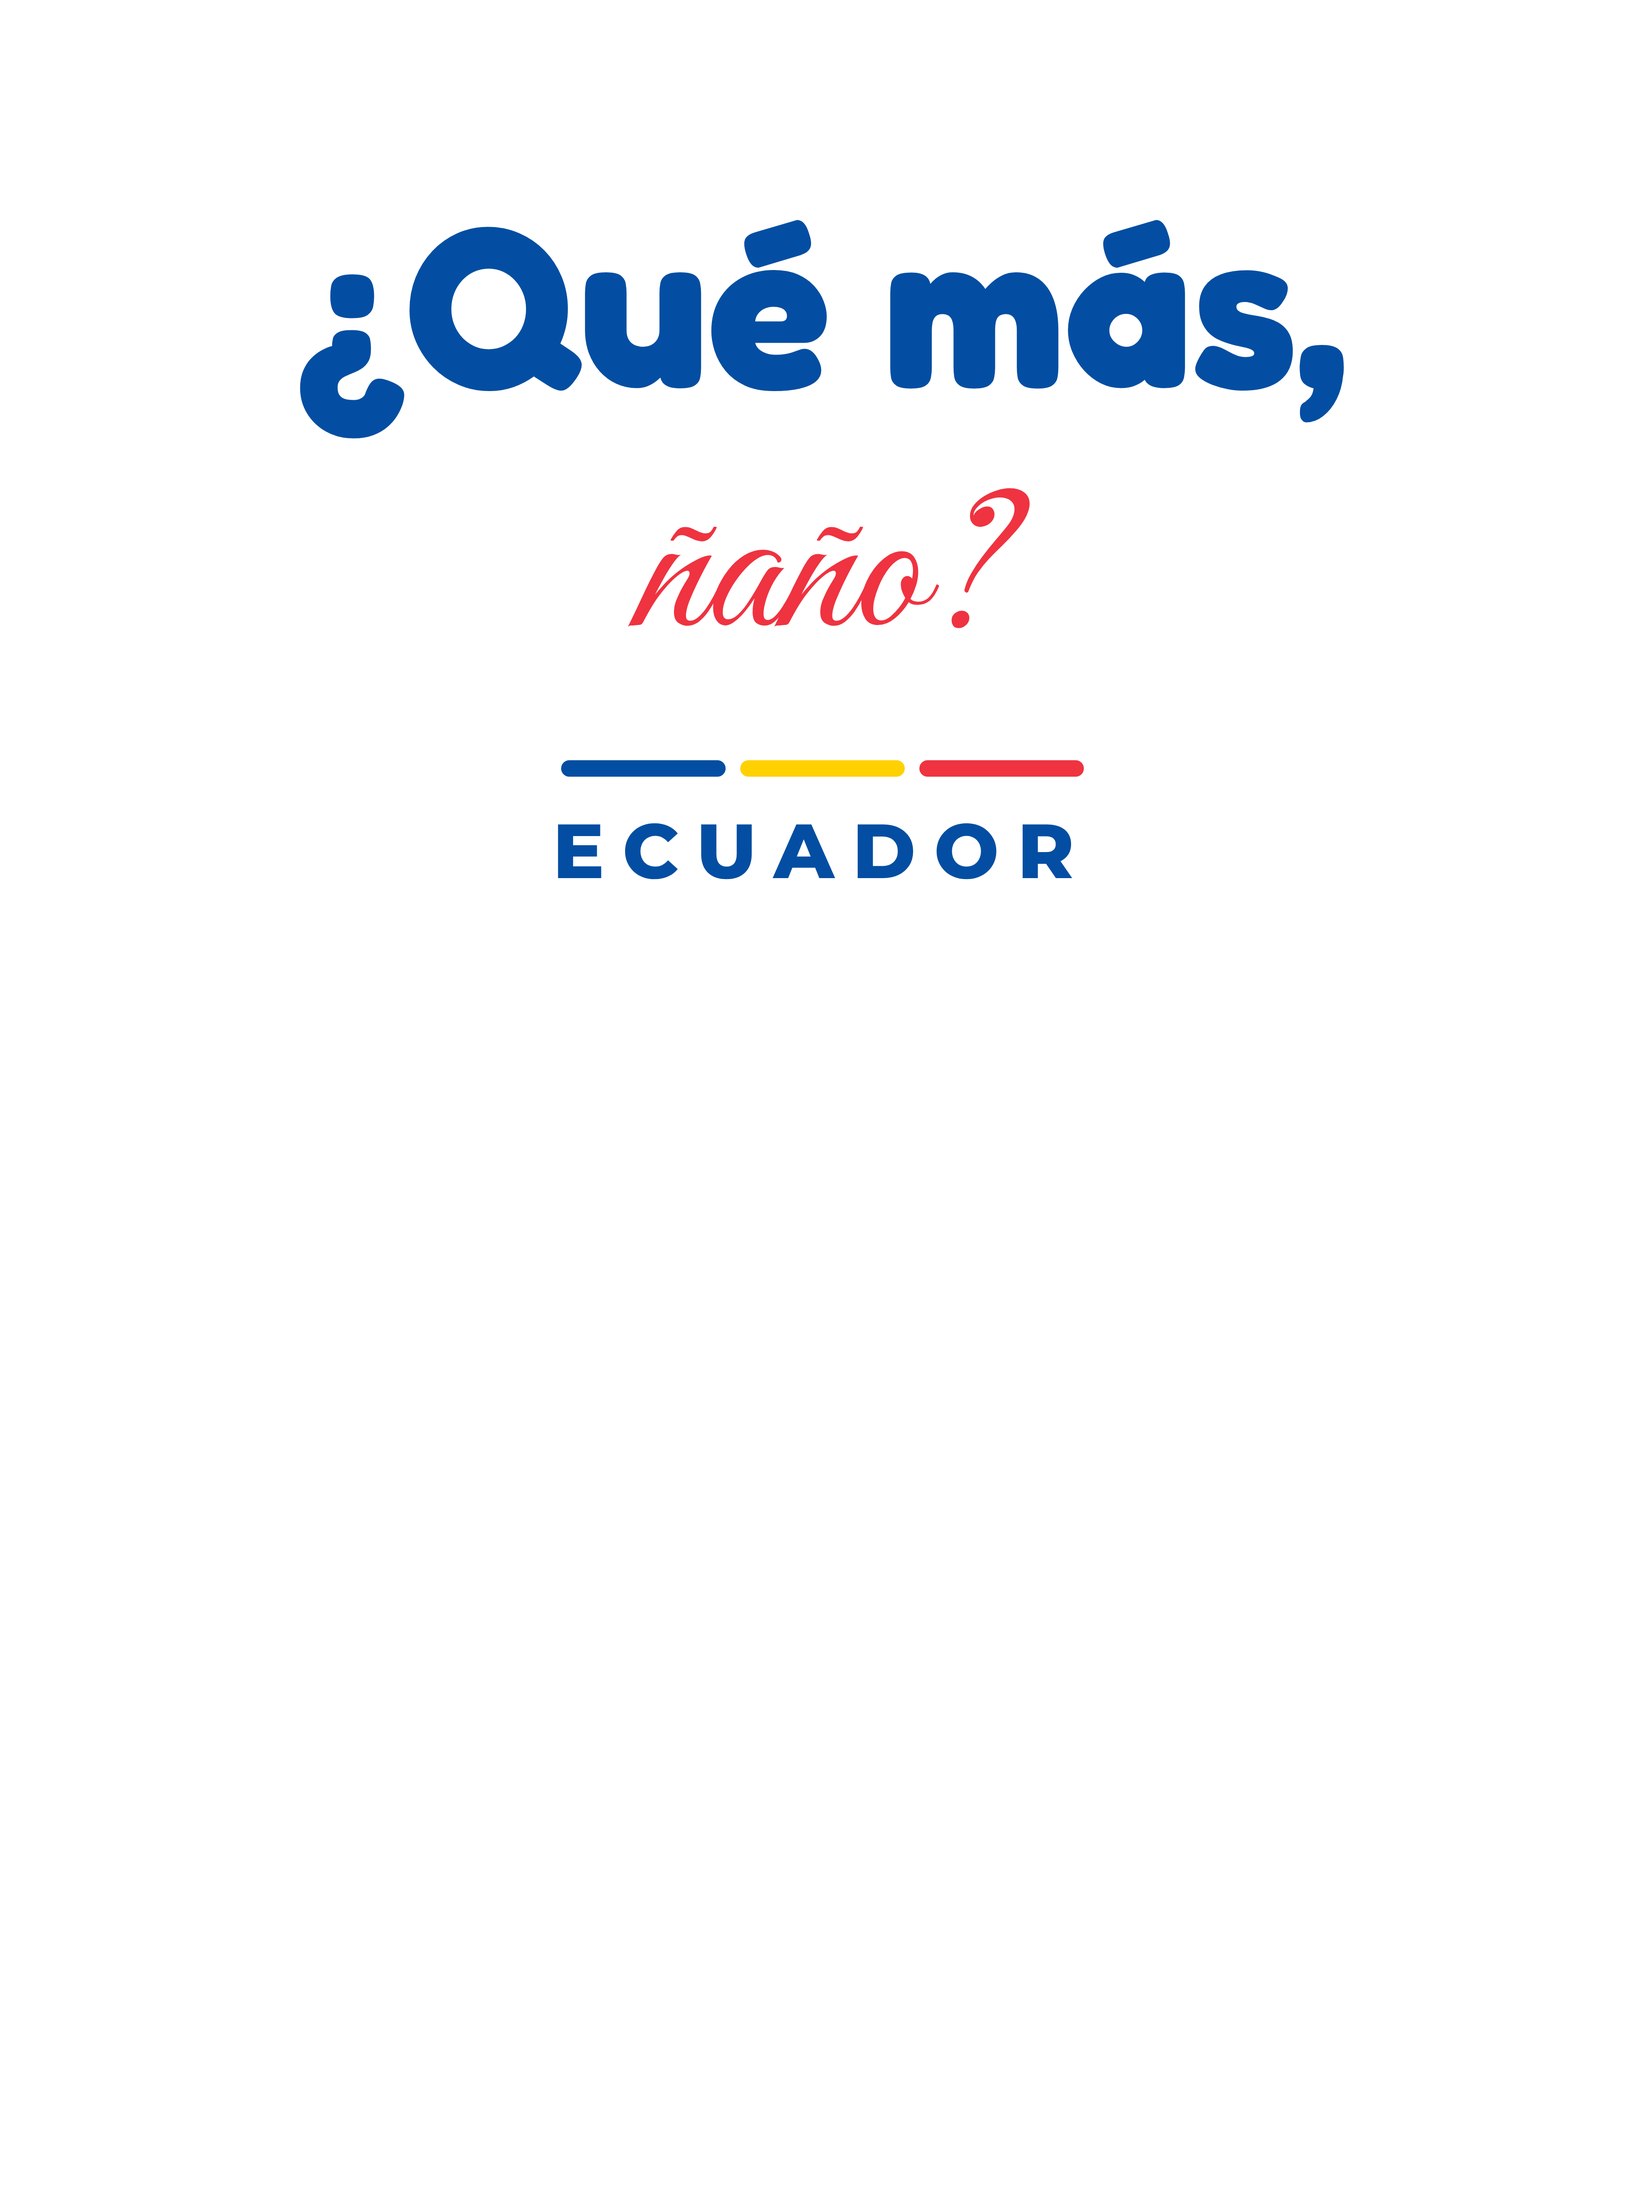
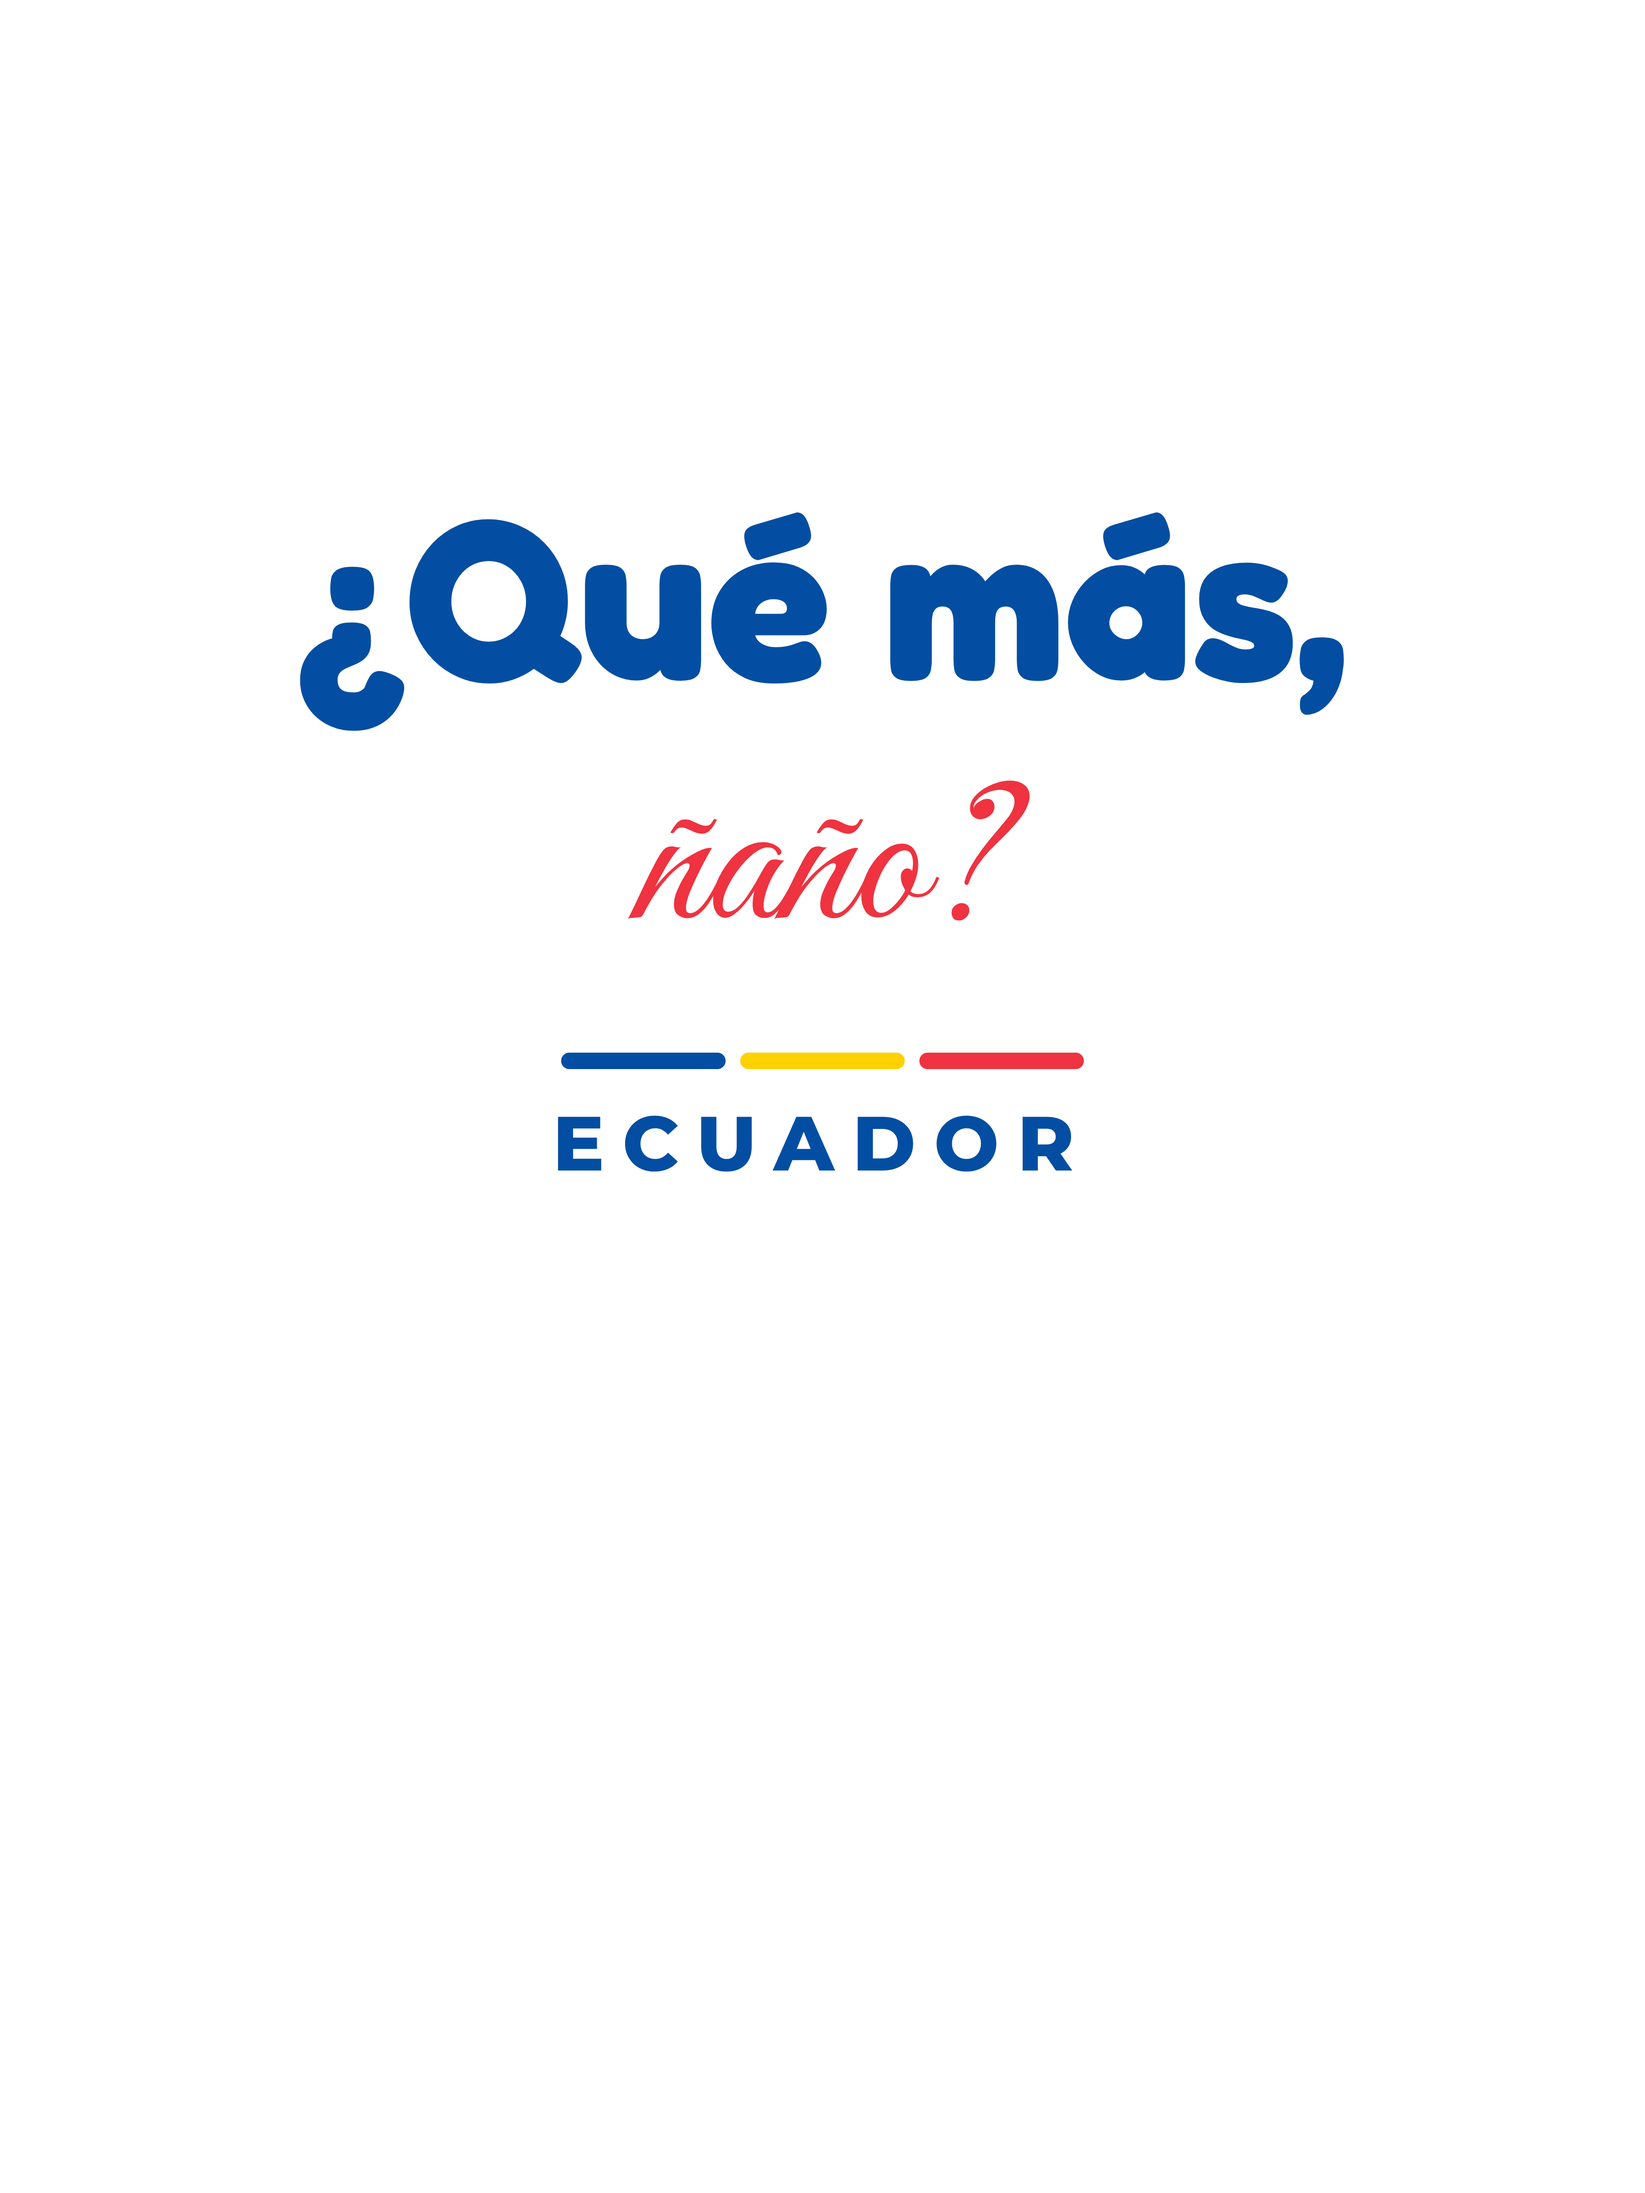
Shirt designs moved below collar; prayer card sample (two-sided)
Claude-Session: https://claude.ai/code/session_016J2nU7A2YAX41gT6f3cs1D

diff --git a/docs/unity-keepsakes/design-scripts/batch6/render.js b/docs/unity-keepsakes/design-scripts/batch6/render.js
@@ -1,0 +1,5 @@
+// jobs.json: [{name, w, h}] ; renders html/<name>.html at w x h (viewport w/2, scale 2)
+const {chromium}=require('playwright');const fs=require('fs');const dir=process.argv[2];const jobs=JSON.parse(fs.readFileSync(dir+'/jobs.json'));
+(async()=>{const b=await chromium.launch();for(const j of jobs){const p=await b.newPage({viewport:{width:Math.round(j.w/2),height:Math.round(j.h/2)},deviceScaleFactor:2});
+await p.goto('file://'+dir+'/html/'+j.name+'.html');await p.evaluate(()=>document.fonts.ready);await p.waitForTimeout(600);
+await p.screenshot({path:dir+'/'+j.name+'.png',clip:{x:0,y:0,width:Math.round(j.w/2),height:Math.round(j.h/2)},omitBackground:!!j.transparent});await p.close();}await b.close()})();

diff --git a/docs/unity-keepsakes/design-scripts/batch6/designs.py b/docs/unity-keepsakes/design-scripts/batch6/designs.py
@@ -1,0 +1,27 @@
+# Batch 6 sample: two-sided prayer card (front design + back verse). Verses: KJV and RV1909 (public domain).
+import os,sys,json
+OUT=sys.argv[1]; os.makedirs(OUT+'/html',exist_ok=True); J=[]
+F='<link href="https://fonts.googleapis.com/css2?family=Great+Vibes&family=Playfair+Display:ital,wght@0,500;0,700;1,500&family=Montserrat:wght@500;700&display=swap" rel="stylesheet">'
+W,H=1800,1200
+def page(name,body):
+    open(f'{OUT}/html/{name}.html','w').write(f'<html><head>{F}<style>html,body{{margin:0;width:{W//2}px;height:{H//2}px;overflow:hidden}}*{{box-sizing:border-box}}</style></head><body><div style="position:relative;width:{W}px;height:{H}px;zoom:.5">{body}</div></body></html>')
+    J.append(dict(name=name,w=W,h=H))
+page('prayer_front_bendecido',f'''<div style="position:absolute;inset:0;background:radial-gradient(circle at 50% 35%,#24456b 0%,#13243a 80%)"></div>
+<div style="position:absolute;inset:60px;border:4px solid #c9a227;border-radius:24px"></div>
+<div style="position:absolute;left:0;right:0;top:150px;text-align:center;color:#f4ecd8">
+<div style="font-family:Montserrat;font-weight:700;font-size:44px;letter-spacing:18px;color:#c9a227">BENDECIDO · BLESSED</div>
+<div style="font-family:'Great Vibes';font-size:230px;line-height:1.2;margin-top:50px">Que Dios te bendiga</div>
+<div style="font-family:'Playfair Display';font-style:italic;font-size:70px;margin-top:20px;color:#e9dcc0">May God bless you</div>
+<div style="font-size:70px;color:#c9a227;margin-top:40px">✝</div></div>''')
+verse_kjv='The LORD is my shepherd; I shall not want.'
+verse_rv='Jehová es mi pastor; nada me faltará.'
+page('prayer_back_salmo23',f'''<div style="position:absolute;inset:0;background:#fbf7ef"></div>
+<div style="position:absolute;inset:60px;border:4px solid #c9a227;border-radius:24px"></div>
+<div style="position:absolute;left:150px;right:150px;top:170px;text-align:center;color:#1f3a5f">
+<div style="font-family:'Playfair Display';font-style:italic;font-size:80px;line-height:1.3">“{verse_rv}”</div>
+<div style="font-family:Montserrat;font-weight:700;font-size:38px;letter-spacing:10px;color:#9a7a20;margin-top:30px">SALMOS 23:1 · RV 1909</div>
+<div style="width:200px;height:4px;background:#c9a227;margin:50px auto"></div>
+<div style="font-family:'Playfair Display';font-style:italic;font-size:60px;line-height:1.3;color:#555">“{verse_kjv}”</div>
+<div style="font-family:Montserrat;font-weight:700;font-size:34px;letter-spacing:10px;color:#777;margin-top:30px">PSALM 23:1 · KJV</div></div>
+<div style="position:absolute;left:0;right:0;bottom:100px;text-align:center;font-family:Montserrat;font-size:30px;letter-spacing:8px;color:#999">UNITY KEEPSAKES · UNITYKEEPSAKES.COM</div>''')
+json.dump(J,open(OUT+'/jobs.json','w')); print(len(J))

diff --git a/docs/unity-keepsakes/design-scripts/countries/designs.py b/docs/unity-keepsakes/design-scripts/countries/designs.py
@@ -22,7 +22,7 @@ def html(big,sub,country,c1,c2,c3,dark):
     t2= c2 if not dark else '#f4b942'
     bar=f'<div style="display:flex;gap:16px;margin:50px 0 30px"><span style="width:180px;height:18px;background:{c1 if not dark else "#ffffff"};border-radius:9px"></span><span style="width:180px;height:18px;background:{c3 if c3!=c1 else "#ffffff" if dark else "#dddddd"};border-radius:9px"></span><span style="width:180px;height:18px;background:{c2};border-radius:9px"></span></div>'
     bigsize=360 if len(big)<=7 else 250
-    return f'''<html><head>{F}<style>html,body{{margin:0;background:transparent}}.c{{width:1800px;height:2400px;display:flex;flex-direction:column;align-items:center;text-align:center;padding-top:200px;box-sizing:border-box}}</style></head><body><div class="c">
+    return f'''<html><head>{F}<style>html,body{{margin:0;background:transparent}}.c{{width:1800px;height:2400px;display:flex;flex-direction:column;align-items:center;text-align:center;padding-top:520px;box-sizing:border-box}}</style></head><body><div class="c">
 <div style="font-family:Fredoka;font-weight:700;font-size:{bigsize}px;line-height:1.05;color:{t1}">{big}</div>
 <div style="font-family:'Great Vibes';font-size:230px;line-height:1.3;margin-top:20px;color:{t2}">{sub}</div>
 {bar}

diff --git a/docs/unity-keepsakes/design-scripts/batch5/designs.py b/docs/unity-keepsakes/design-scripts/batch5/designs.py
@@ -66,7 +66,7 @@ orn('orn_pet','radial-gradient(circle,#ffffff 0%,#f3ebe2 100%)',f'''<div style="
 # ---- No Sabo Kid tee (Bella+Canvas 3001, 1800x2400, transparent) ----
 for mode in ('light','dark'):
     t1='#1f2a44' if mode=='light' else '#ffffff'; acc='#e23b3b' if mode=='light' else '#f5c518'
-    page(f'tee_nosabo_{mode}',1800,2400,f'''<div style="position:absolute;left:0;right:0;top:260px;text-align:center">
+    page(f'tee_nosabo_{mode}',1800,2400,f'''<div style="position:absolute;left:0;right:0;top:560px;text-align:center">
 <div style="font-family:Fredoka;font-weight:700;font-size:400px;line-height:.95;color:{t1}">NO SABO</div>
 <div style="font-family:Fredoka;font-weight:700;font-size:400px;line-height:.95;color:{acc}">KID</div>
 <div style="font-family:'Great Vibes';font-size:250px;line-height:1.3;color:{t1};margin-top:30px">pero entiendo todo</div>
